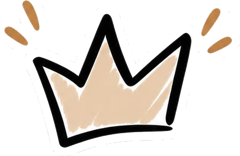
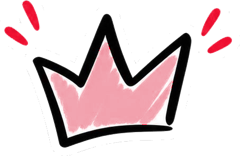
Switch the mobile theme to the red-black design
Port the palette, bold Hanken Grotesk headings, red stickers and the
code-drawn pin wall welcome background from feature/restore-red-design
onto the current API-connected screens.

Claude-Session: https://claude.ai/code/session_01FfMU7PtHXP73n5NKG2hvuJ

diff --git a/mobile/src/features/auth/screens/AuthScreen.tsx b/mobile/src/features/auth/screens/AuthScreen.tsx
@@ -1,9 +1,9 @@
 import { useState, type ReactNode } from "react";
 import {
   Image,
-  ImageBackground,
   Pressable,
   StyleSheet,
+  useWindowDimensions,
   View,
   type ImageSourcePropType,
   type LayoutChangeEvent,
@@ -18,7 +18,6 @@ import { AppLogo } from "@/components/ui/AppLogo";
 import { usePreviewMessage } from "@/hooks/use-preview-message";
 import { colors, fonts, sand, serif } from "@/theme";
 
-const BACKGROUND = require("../../../../assets/images/auth/background.jpg");
 const WOMAN = require("../../../../assets/images/auth/woman.jpg");
 const MAN = require("../../../../assets/images/auth/man.jpg");
 const GOOGLE_G = require("../../../../assets/images/auth/google-g.png");
@@ -33,6 +32,59 @@ const GOLD = "#F2B627";
 // Çerçeve en/boy oranı ve alttaki "More Style Together" yazısına ayrılan pay.
 const FRAME_RATIO = 0.86;
 const SCRIPT_SPACE = 46;
+
+// Arka plandaki pano: açık kırmızı ve gri karolardan oluşan, alta doğru beyaza eriyen bir
+// "pin duvarı". Görsel dosyası kullanmaz; her ekran genişliğinde yeniden dizilir.
+const PIN_TONES = [colors.accentSoft, colors.chip, "#F5C9CF", colors.surface, "#D6D6D3", colors.accentSoft];
+const PIN_HEIGHTS = [
+  [150, 110, 190, 130, 170],
+  [100, 180, 120, 200, 140],
+  [170, 130, 160, 110, 190],
+  [120, 200, 140, 170, 120],
+];
+const FADE_STEPS = 12;
+
+function PinWall() {
+  const { width, height } = useWindowDimensions();
+  const columns = Math.max(4, Math.ceil(width / 130));
+  return (
+    <View style={[StyleSheet.absoluteFill, styles.wall]}>
+      <View style={[styles.wallGrid, { height: height * 0.78 }]}>
+        {Array.from({ length: columns }, (_, column) => (
+          <View
+            key={column}
+            style={{ flex: 1, gap: 12, marginTop: column % 2 ? -70 : 0 }}
+          >
+            {PIN_HEIGHTS[column % PIN_HEIGHTS.length].map((pin, row) => (
+              <View
+                key={row}
+                style={{
+                  height: pin,
+                  borderRadius: 22,
+                  backgroundColor:
+                    PIN_TONES[(column * 2 + row) % PIN_TONES.length],
+                }}
+              />
+            ))}
+          </View>
+        ))}
+      </View>
+      {/* Gradyan kütüphanesi yok: şeffaftan beyaza basamaklı şeritler. */}
+      <View style={[styles.wallFade, { top: height * 0.3, height: height * 0.34 }]}>
+        {Array.from({ length: FADE_STEPS }, (_, step) => (
+          <View
+            key={step}
+            style={{
+              flex: 1,
+              backgroundColor: `rgba(255,255,255,${((step + 1) / FADE_STEPS).toFixed(2)})`,
+            }}
+          />
+        ))}
+      </View>
+      <View style={[styles.wallFade, { top: height * 0.64, bottom: 0, backgroundColor: colors.background }]} />
+    </View>
+  );
+}
 
 // Karşılama ekranı kaydırmadan tek ekrana sığar. E-posta girişi bağlı;
 // Kayıt/doğrulama bağlı; Apple/Google sonraki adımda. "Başla" önizlemeyi açar.
@@ -65,11 +117,8 @@ export function AuthScreen() {
   const rightTop = topY + rightOffset;
 
   return (
-    <ImageBackground
-      source={BACKGROUND}
-      resizeMode="cover"
-      style={styles.background}
-    >
+    <View style={styles.background}>
+      <PinWall />
       <SafeAreaView
         edges={["top", "left", "right", "bottom"]}
         style={styles.page}
@@ -230,7 +279,7 @@ export function AuthScreen() {
           {"'nı kabul etmiş olursun."}
         </Text>
       </SafeAreaView>
-    </ImageBackground>
+    </View>
   );
 }
 
@@ -284,6 +333,17 @@ function Provider({
 
 const styles = StyleSheet.create({
   background: { flex: 1, backgroundColor: sand.background },
+  wall: { overflow: "hidden", pointerEvents: "none" },
+  wallGrid: {
+    position: "absolute",
+    top: -50,
+    left: -60,
+    right: -60,
+    flexDirection: "row",
+    gap: 12,
+    transform: [{ rotate: "-7deg" }],
+  },
+  wallFade: { position: "absolute", left: 0, right: 0 },
   page: {
     flex: 1,
     width: "100%",
@@ -302,7 +362,6 @@ const styles = StyleSheet.create({
   },
   logo: {
     fontFamily: serif,
-    fontStyle: "italic",
     fontWeight: "700",
     fontSize: 52,
     letterSpacing: -2,
@@ -340,7 +399,7 @@ const styles = StyleSheet.create({
     width: 70,
     height: 20,
     zIndex: 1,
-    backgroundColor: "rgba(214,182,140,0.75)",
+    backgroundColor: "rgba(17,17,17,0.14)",
     transform: [{ rotate: "-3deg" }],
   },
   likes: {
@@ -361,7 +420,7 @@ const styles = StyleSheet.create({
     bottom: 16,
     flexDirection: "row",
     gap: 1,
-    backgroundColor: "#1F1A16",
+    backgroundColor: colors.text,
     paddingHorizontal: 8,
     paddingVertical: 4,
     borderRadius: 12,
@@ -369,7 +428,6 @@ const styles = StyleSheet.create({
   script: {
     position: "absolute",
     fontFamily: serif,
-    fontStyle: "italic",
     fontSize: 18,
     lineHeight: 20,
     color: sand.brownDark,

diff --git a/mobile/src/theme/index.ts b/mobile/src/theme/index.ts
@@ -1,40 +1,38 @@
-import { Platform, StyleSheet } from "react-native";
+import { StyleSheet } from "react-native";
 
-// Podyum kahve/krem paleti; tüm sekme ve ayrıntı ekranları bunu kullanır.
+// Podyum kırmızı-siyah paleti: beyaz zemin, #D00A26 kırmızı, nötr gri yüzeyler.
+// Tüm sekme ve ayrıntı ekranları bunu kullanır.
 export const brand = {
-  background: "#F3ECE6", // genel arka plan
-  surface: "#F1E4D8", // kart arka planları
-  card: "#FAF8F5", // açık yüzeyler
-  line: "#E4D3C3",
-  chip: "#EADACB",
-  accent: "#B7764A", // ana butonlar
-  accentSoft: "#DDBFA5", // seçili kategoriler
-  accentDark: "#6B4128", // seçili öğe yazısı
-  muted: "#9C8576",
+  background: "#FFFFFF", // genel arka plan
+  surface: "#F4F3EF", // kart arka planları
+  card: "#FFFFFF", // açık yüzeyler
+  line: "#DAD9D4",
+  chip: "#E9E9E6",
+  accent: "#D00A26", // ana butonlar
+  accentSoft: "#FBE3E6", // seçili kategoriler, pastel kırmızı
+  accentDark: "#B00820", // seçili öğe yazısı
+  muted: "#5F5F5A",
 };
-// Giriş ekranının kahve/krem görünümü.
+// Giriş ve kayıt ekranları da aynı paleti kullanır.
 export const sand = {
-  background: "#F3ECE6",
-  card: "#FAF8F5",
-  line: "#E4D3C3",
-  brown: "#B7764A",
-  brownDark: "#7A4A22",
-  muted: "#6E6257",
+  background: "#FFFFFF",
+  card: "#FFFFFF",
+  line: "#DAD9D4",
+  brown: "#D00A26",
+  brownDark: "#111111",
+  muted: "#5F5F5A",
 };
-export const serif = Platform.select({
-  ios: "Georgia",
-  android: "serif",
-  default: "Georgia, 'Times New Roman', serif",
-});
 
 export const colors = {
-  background: "#F3ECE6",
-  text: "#25212A",
-  muted: "#6B625D",
-  surface: "#F1E4D8",
-  chip: "#EADACB",
-  line: "#E4D3C3",
-  accent: "#B7764A",
+  background: "#FFFFFF",
+  text: "#111111",
+  muted: "#5F5F5A",
+  surface: "#F4F3EF",
+  chip: "#E9E9E6",
+  line: "#DAD9D4",
+  accent: "#D00A26",
+  // Seçili çip, avatar ve görsel yer tutucularındaki pastel kırmızı.
+  accentSoft: "#FBE3E6",
   onAccent: "#FFFFFF",
   blue: "#0B66D0",
   avatar: "#D9D4CC",
@@ -47,6 +45,8 @@ export const fonts = {
   bold: "HankenGrotesk_700Bold",
   extraBold: "HankenGrotesk_800ExtraBold",
 };
+// Başlıklar serif yerine kalın Hanken Grotesk kullanır.
+export const serif = fonts.extraBold;
 export const spacing = { xs: 4, sm: 8, md: 12, lg: 16, xl: 24, xxl: 32 };
 export const radius = { sm: 12, md: 18, lg: 24, pill: 999 };
 export const common = StyleSheet.create({

diff --git a/mobile/src/features/games/screens/GamesScreen.tsx b/mobile/src/features/games/screens/GamesScreen.tsx
@@ -521,10 +521,9 @@ const styles = StyleSheet.create({
     overflow: "hidden",
   },
   fill: { height: "100%", borderRadius: 4, backgroundColor: brand.accent },
-  hero: { gap: 12, backgroundColor: "#EAD7C6" },
+  hero: { gap: 12, backgroundColor: brand.accentSoft },
   heroTitle: {
     fontFamily: serif,
-    fontStyle: "italic",
     fontWeight: "700",
     fontSize: 34,
     letterSpacing: -1,
@@ -568,7 +567,7 @@ const styles = StyleSheet.create({
     height: 144,
     borderRadius: 10,
     overflow: "hidden",
-    backgroundColor: "#F3E3D3",
+    backgroundColor: brand.surface,
     borderWidth: 5,
     borderColor: brand.card,
     alignItems: "center",

diff --git a/mobile/src/components/ui/BrandTitle.tsx b/mobile/src/components/ui/BrandTitle.tsx
@@ -4,7 +4,7 @@ import { Text } from "./Text";
 import { AppLogo } from "./AppLogo";
 import { brand, colors, serif } from "@/theme";
 
-// Sekme ekranlarının sol üstündeki italik serif başlık ve parıltı.
+// Sekme ekranlarının sol üstündeki kalın başlık ve kırmızı parıltı.
 export function BrandTitle({ title }: { title: string }) {
   return (
     <View
@@ -19,7 +19,6 @@ export function BrandTitle({ title }: { title: string }) {
       <Text
         style={{
           fontFamily: serif,
-          fontStyle: "italic",
           fontWeight: "700",
           fontSize: 40,
           letterSpacing: -1,

diff --git a/mobile/src/features/people/screens/PeopleScreen.tsx b/mobile/src/features/people/screens/PeopleScreen.tsx
@@ -344,7 +344,7 @@ function FeaturedCard({
     <View
       style={[
         styles.featured,
-        tinted && { backgroundColor: "#EAD7C6", borderColor: brand.accentSoft },
+        tinted && { backgroundColor: brand.accentSoft, borderColor: brand.accentSoft },
       ]}
     >
       <Pressable
@@ -459,7 +459,6 @@ const styles = StyleSheet.create({
   content: { padding: 16, paddingBottom: 28, gap: 14 },
   title: {
     fontFamily: serif,
-    fontStyle: "italic",
     fontWeight: "700",
     fontSize: 36,
     letterSpacing: -1,

diff --git a/mobile/src/features/trends/screens/TrendsScreen.tsx b/mobile/src/features/trends/screens/TrendsScreen.tsx
@@ -244,7 +244,7 @@ export function TrendsScreen() {
                   styles.row,
                   {
                     backgroundColor:
-                      item.rank === 1 ? "#EAD7C6" : colors.surface,
+                      item.rank === 1 ? colors.accentSoft : colors.surface,
                     opacity: pressed ? 0.6 : 1,
                   },
                 ]}

diff --git a/mobile/src/features/polls/screens/CreatePollScreen.tsx b/mobile/src/features/polls/screens/CreatePollScreen.tsx
@@ -41,7 +41,7 @@ import {
 const MAX_OPTIONS = 4;
 const MAX_QUESTION = 100;
 const LETTERS = ["A", "B", "C", "D"];
-const TONES = ["#EAD7C6", "#E4D6CB", "#DDE2E6", "#F1EBDA"];
+const TONES = ["#F6DCDC", "#ECDDF1", "#DDE6F1", "#F1EBDA"];
 const BADGE_TONES = [
   "rgba(183,118,74,0.9)",
   "rgba(107,65,40,0.85)",

diff --git a/mobile/src/features/auth/screens/RegisterScreen.tsx b/mobile/src/features/auth/screens/RegisterScreen.tsx
@@ -860,7 +860,6 @@ const styles = StyleSheet.create({
   },
   logo: {
     fontFamily: serif,
-    fontStyle: "italic",
     fontWeight: "700",
     fontSize: 32,
     letterSpacing: -1,
